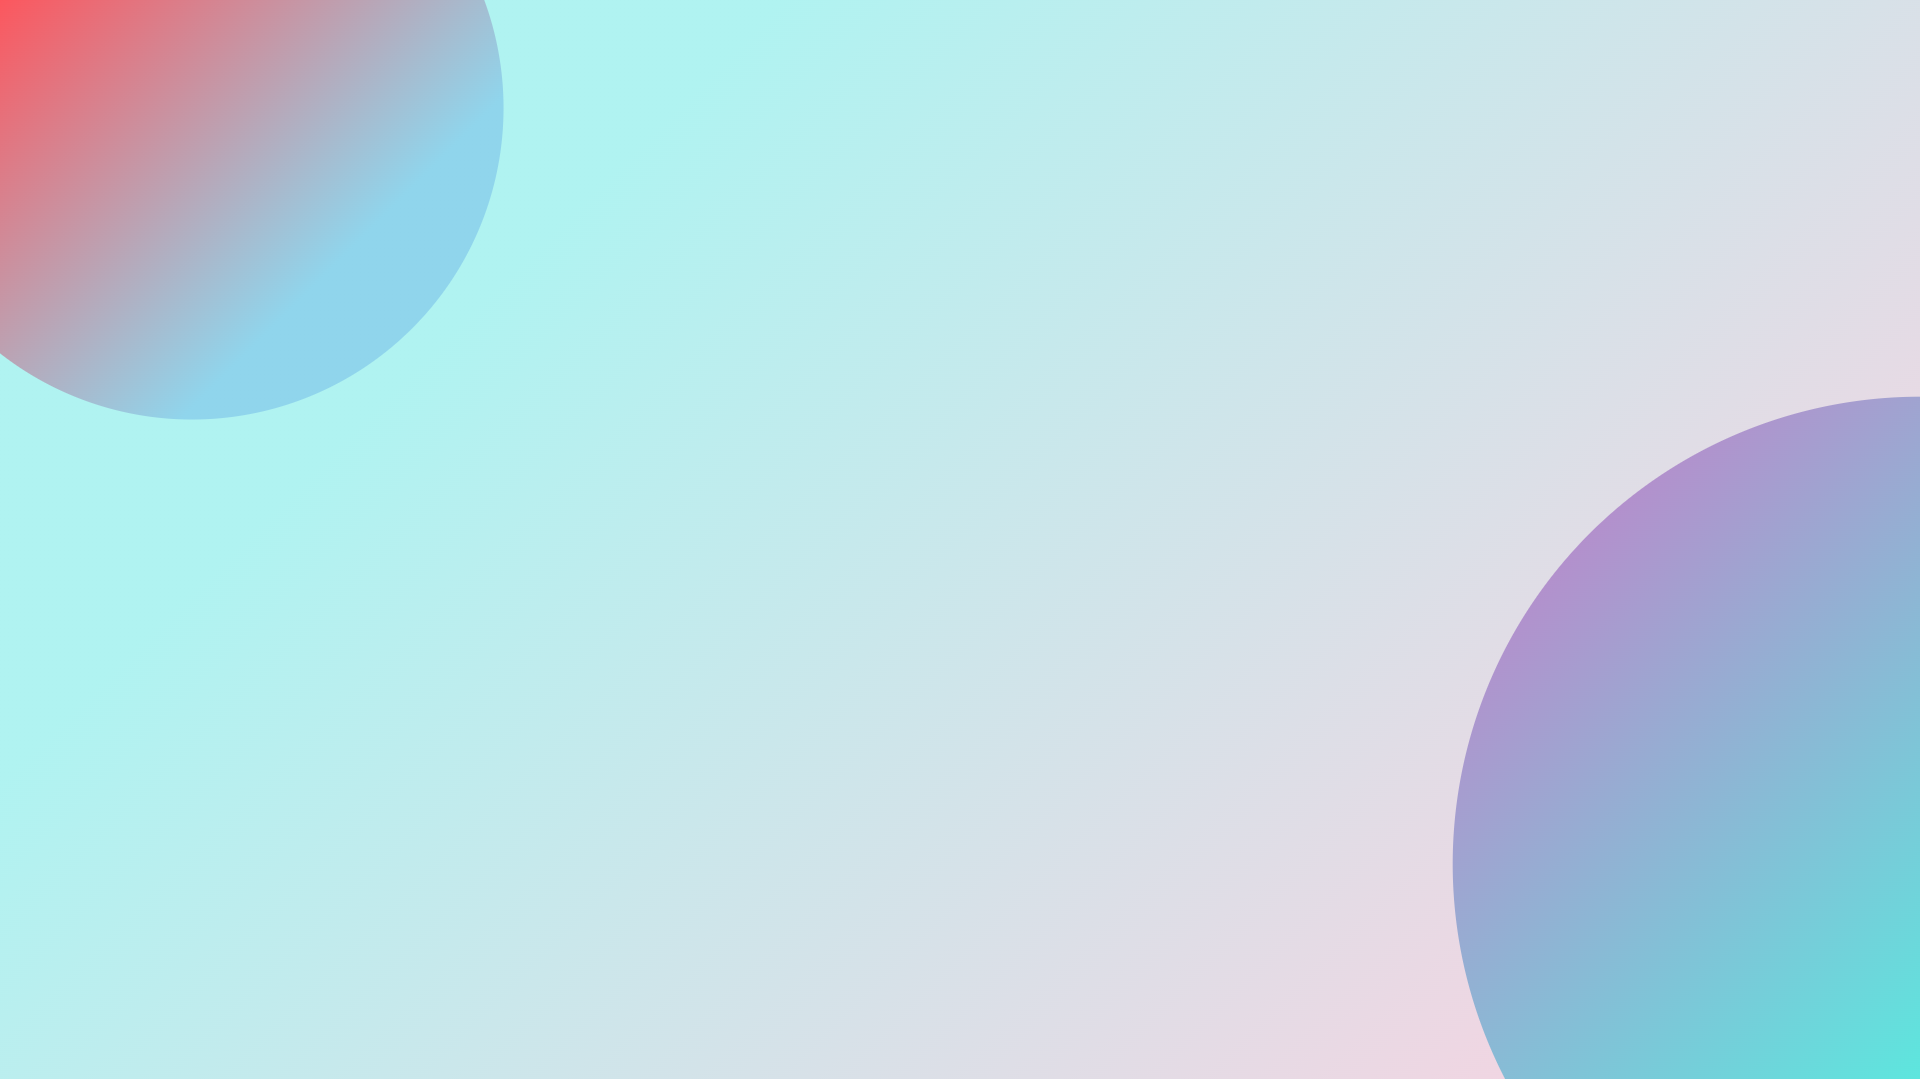
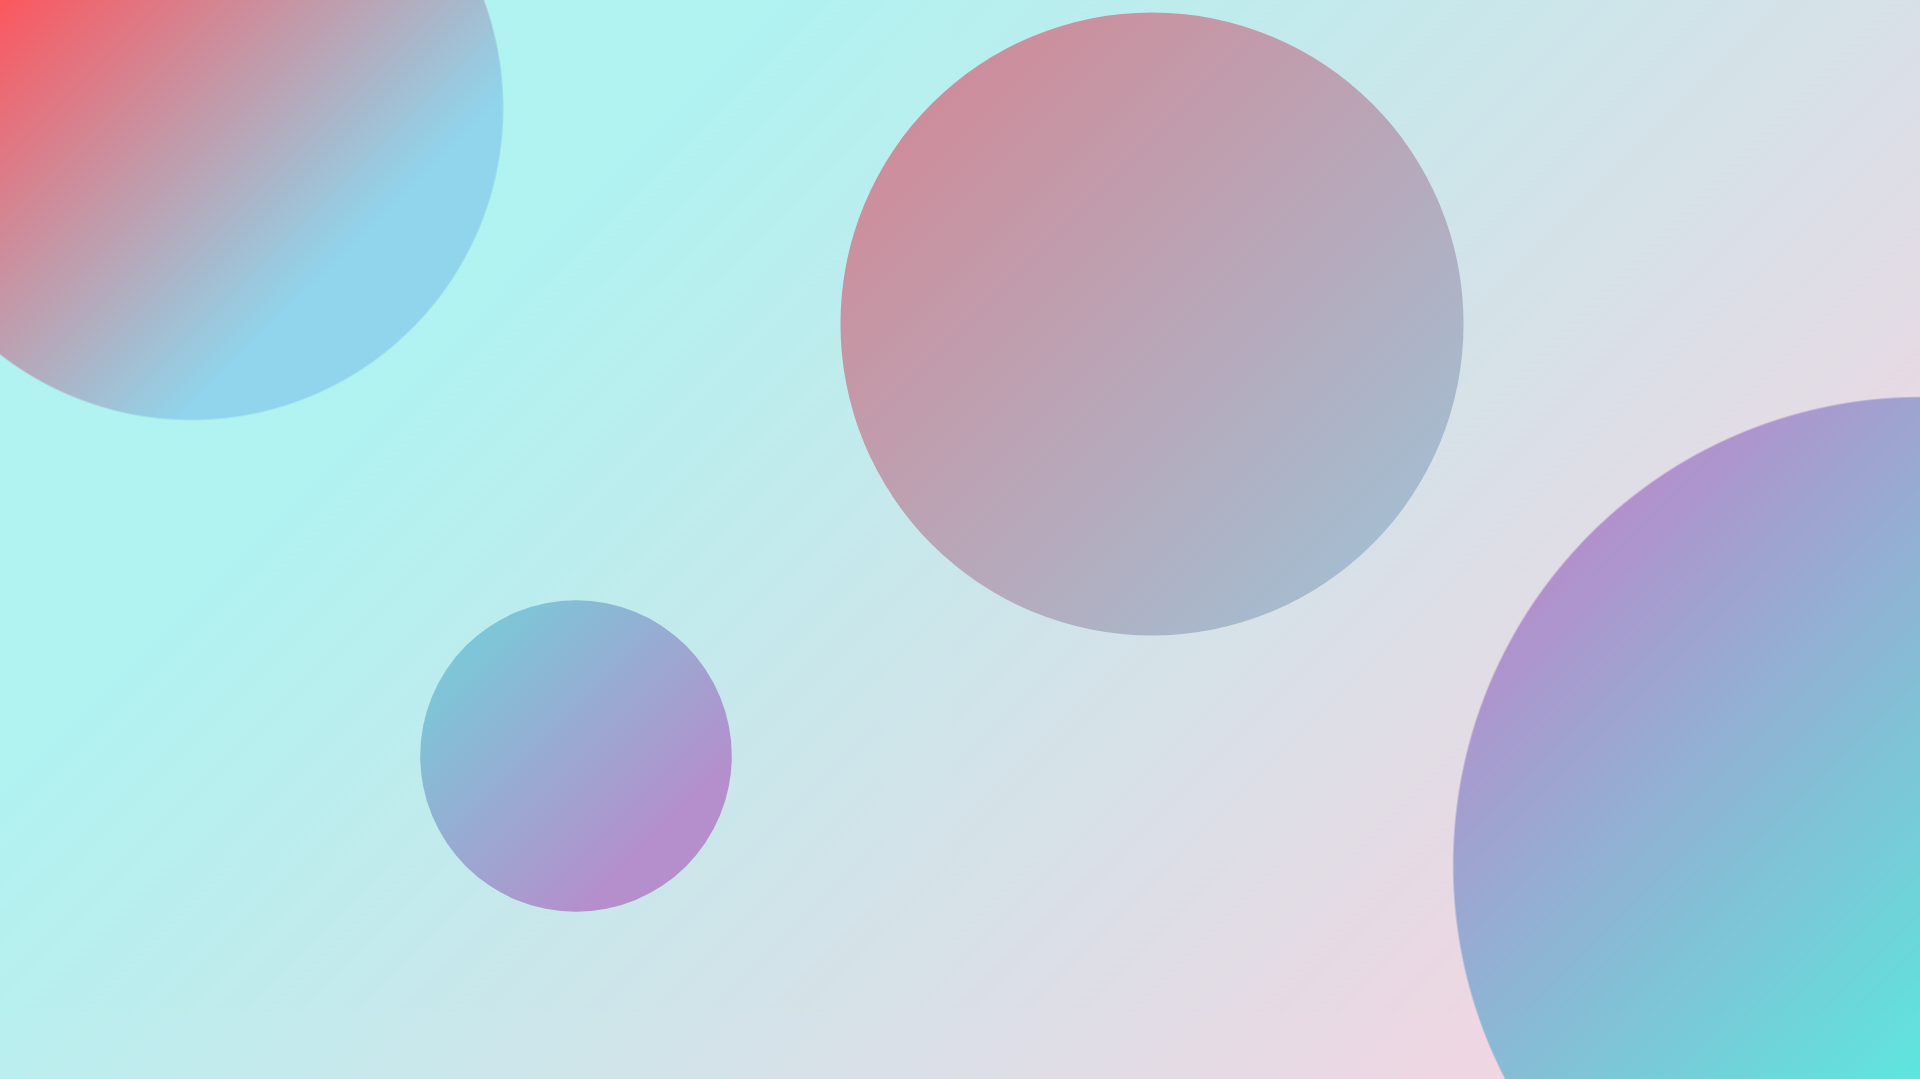
styling

Changed region(s): [[0.4375, 0.0, 0.7812, 0.6117], [0.2188, 0.5505, 0.4062, 0.8563]]

diff --git a/src/pages/Cart.jsx b/src/pages/Cart.jsx
@@ -1,4 +1,4 @@
-import { DeleteForeverOutlined } from "@mui/icons-material";
+import { Delete } from "@mui/icons-material";
 import React, { useState } from "react";
 import { useDispatch, useSelector } from "react-redux";
 import { Link } from "react-router-dom";
@@ -60,10 +60,8 @@ const Cart = () => {
                   </div>
                 </div>
                 <div className="cart-price">
-                  <div className="cart-amtContainer">
-                    <DeleteForeverOutlined
-                      onClick={() => removeItem(product)}
-                    />
+                  <div className="cart-delete">
+                    <Delete onClick={() => removeItem(product)} />
                   </div>
                   <div className="cart-product-price">{`₹ ${
                     product.price * product.quantity
@@ -81,11 +79,11 @@ const Cart = () => {
             </div>
             <div className="cart-summary-item">
               <div className="cart-summary-text">Estimated Shipping</div>
-              <div className="cart-summary-text">₹ 10</div>
+              <div className="cart-summary-text">₹ 50</div>
             </div>
             <div className="cart-summary-item">
               <div className="cart-summary-text">Shipping Discount</div>
-              <div className="cart-summary-text">₹ -10</div>
+              <div className="cart-summary-text">₹ -50</div>
             </div>
             <div
               className="cart-summary-item"

diff --git a/src/index.css b/src/index.css
@@ -23,9 +23,9 @@ body {
   left: 0;
   width: 100%;
   height: 100%;
-  background: linear-gradient(315deg, #5de6de 0%, #b58ecc 30%);
+  background: linear-gradient(315deg, #b58ecc 50%, #5de6de 70%);
   background-attachment: fixed;
-  clip-path: circle(30% at right 80%);
+  clip-path: circle(10% at 30% 70%);
   z-index: -1;
 }
 body::after {
@@ -35,10 +35,10 @@ body::after {
   left: 0;
   width: 100%;
   height: 100%;
-  background: linear-gradient(315deg, #90d5ec 80%, #fc575e);
+  background: linear-gradient(315deg, #90d5ec 20%, #fc575e);
 
   z-index: -1;
-  clip-path: circle(20% at 10% 10%);
+  clip-path: circle(20% at 60% 30%);
 } */
 a {
   color: black;

diff --git a/src/pages/Cart.css b/src/pages/Cart.css
@@ -7,7 +7,7 @@
   border-radius: 15px;
   background: rgba(255, 255, 255, 0.1);
   overflow: hidden;
-  backdrop-filter: blur(8px);
+  backdrop-filter: blur(15px);
 }
 .cart-title {
   font-weight: 200;
@@ -66,9 +66,11 @@
   align-items: center;
   justify-content: center;
 }
-.cart-amtContainer {
-  display: flex;
-  align-items: center;
+.cart-delete {
+  margin-bottom: 30px;
+}
+.cart-delete:hover {
+  transform: scale(1.07);
 }
 
 .cart-amount {

diff --git a/src/components/Newsletter.css b/src/components/Newsletter.css
@@ -42,6 +42,12 @@
   align-items: center;
   justify-content: center;
 }
+.news-input input:focus-visible {
+  background: rgba(255, 255, 255, 0.3);
+}
+.news-input button:hover {
+  color: white;
+}
 
 @media (max-width: 500px) {
   .news {

diff --git a/src/pages/Checkout.css b/src/pages/Checkout.css
@@ -7,7 +7,7 @@
   flex-direction: column;
 }
 .shipping-form {
-  width: 60vh;
+  width: 60vw;
   padding: 40px 60px;
   box-shadow: 20px 20px 50px rgba(0, 0, 0, 0.5);
   border-top: 1px solid rgba(255, 255, 255, 0.5);

diff --git a/src/components/Navbar.css b/src/components/Navbar.css
@@ -15,7 +15,7 @@
   border-top: 1px solid rgba(255, 255, 255, 0.5);
   background: rgba(255, 255, 255, 0.1);
   overflow: hidden;
-  backdrop-filter: blur(8px);
+  backdrop-filter: blur(12px);
 }
 
 .left {

diff --git a/src/components/Footer.css b/src/components/Footer.css
@@ -6,7 +6,7 @@
   border-radius: 15px 15px 0 0;
   background: rgba(255, 255, 255, 0.1);
   overflow: hidden;
-  backdrop-filter: blur(8px);
+  backdrop-filter: blur(15px);
 }
 .footer-left {
   flex: 1;

diff --git a/src/components/Slider.css b/src/components/Slider.css
@@ -12,7 +12,7 @@
   border-radius: 15px;
   background: rgba(255, 255, 255, 0.1);
   overflow: hidden;
-  backdrop-filter: blur(8px);
+  backdrop-filter: blur(15px);
 }
 .slider-arrow {
   width: 50px;

diff --git a/src/components/Anouncements.css b/src/components/Anouncements.css
@@ -7,4 +7,5 @@
   justify-content: center;
   font-size: 14px;
   font-weight: 500;
+  padding: 3px;
 }
